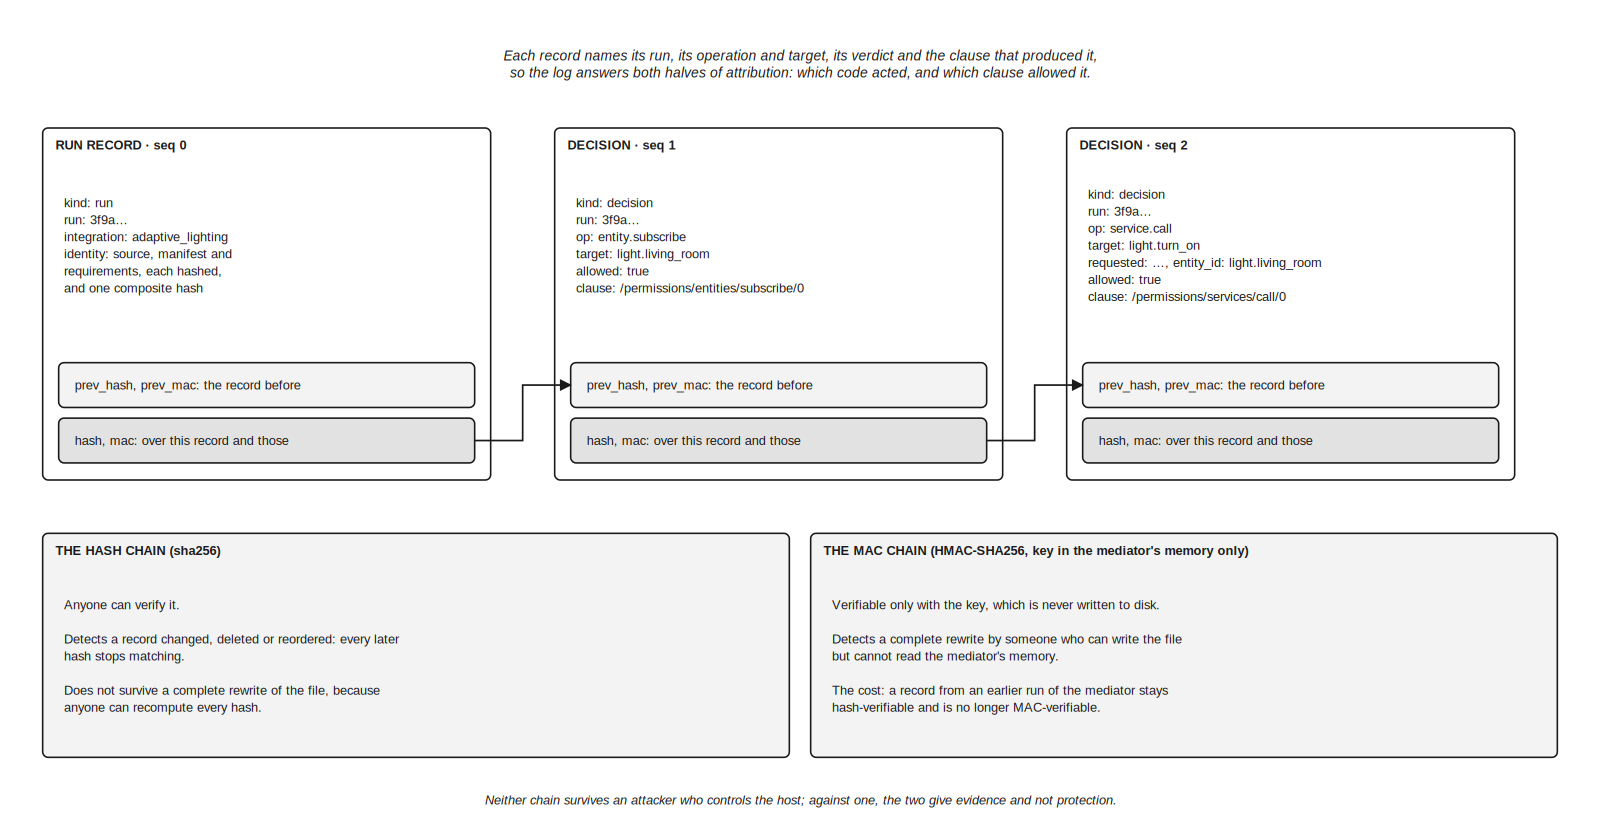
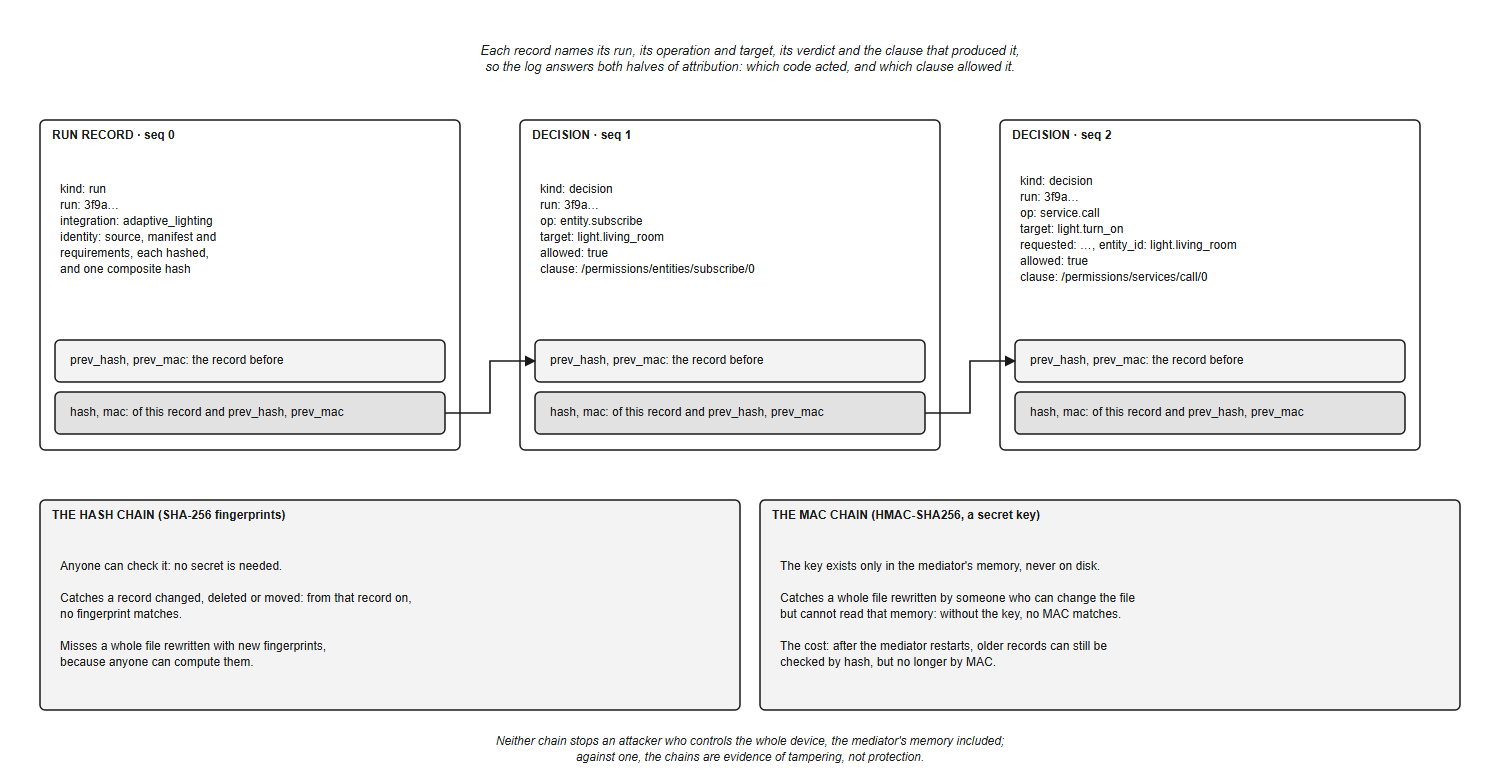
Figure 9.5: the link label says what each hash and MAC covers; the two chain boxes and the closing line in plain words (Younes); PNG fallback re-rendered

diff --git a/v2/figures/fig_9_5_record.py b/v2/figures/fig_9_5_record.py
@@ -36,7 +36,7 @@ for i, (title, body) in enumerate(RECORDS):
     c.box(x + 15, Y + 220, W - 30, 42, fill="light")
     c.text(x + 30, Y + 241, "prev_hash, prev_mac: the record before", size=12, anchor="start")
     c.box(x + 15, Y + 272, W - 30, 42, fill="mid")
-    c.text(x + 30, Y + 293, "hash, mac: over this record and those", size=12, anchor="start")
+    c.text(x + 30, Y + 293, "hash, mac: of this record and prev_hash, prev_mac", size=12, anchor="start")
     if i:
         # The previous record's links are carried into this one.
         px = x - GAP - 15
@@ -47,18 +47,19 @@ c.text(750, 60, "Each record names its run, its operation and target, its verdic
        "acted, and which clause allowed it.", size=13, italic=True)
 
 # --- what each link detects ----------------------------------------------------------------------
-c.box(40, 500, 700, 210, fill="light", title="THE HASH CHAIN  (sha256)")
-c.text(60, 615, "Anyone can verify it.\n\nDetects a record changed, deleted or reordered: every "
-       "later\nhash stops matching.\n\nDoes not survive a complete rewrite of the file, "
-       "because\nanyone can recompute every hash.", size=12, anchor="start")
-c.box(760, 500, 700, 210, fill="light", title="THE MAC CHAIN  (HMAC-SHA256, key in the "
-      "mediator's memory only)")
-c.text(780, 615, "Verifiable only with the key, which is never written to disk.\n\nDetects a "
-       "complete rewrite by someone who can write the file\nbut cannot read the mediator's "
-       "memory.\n\nThe cost: a record from an earlier run of the mediator stays\nhash-"
-       "verifiable and is no longer MAC-verifiable.", size=12, anchor="start")
+c.box(40, 500, 700, 210, fill="light", title="THE HASH CHAIN  (SHA-256 fingerprints)")
+c.text(60, 615, "Anyone can check it: no secret is needed.\n\nCatches a record changed, deleted "
+       "or moved: from that record on,\nno fingerprint matches.\n\nMisses a whole file "
+       "rewritten with new fingerprints,\nbecause anyone can compute them.", size=12,
+       anchor="start")
+c.box(760, 500, 700, 210, fill="light", title="THE MAC CHAIN  (HMAC-SHA256, a secret key)")
+c.text(780, 615, "The key exists only in the mediator's memory, never on disk.\n\nCatches a whole "
+       "file rewritten by someone who can change the file\nbut cannot read that memory: "
+       "without the key, no MAC matches.\n\nThe cost: after the mediator restarts, older "
+       "records can still be\nchecked by hash, but no longer by MAC.", size=12, anchor="start")
 
-c.text(750, 750, "Neither chain survives an attacker who controls the host; against one, the "
-       "two give evidence and not protection.", size=12, italic=True)
+c.text(750, 750, "Neither chain stops an attacker who controls the whole device, the mediator's "
+       "memory included;\nagainst one, the chains are evidence of tampering, not protection.",
+       size=12, italic=True)
 
 c.save(OUT)
